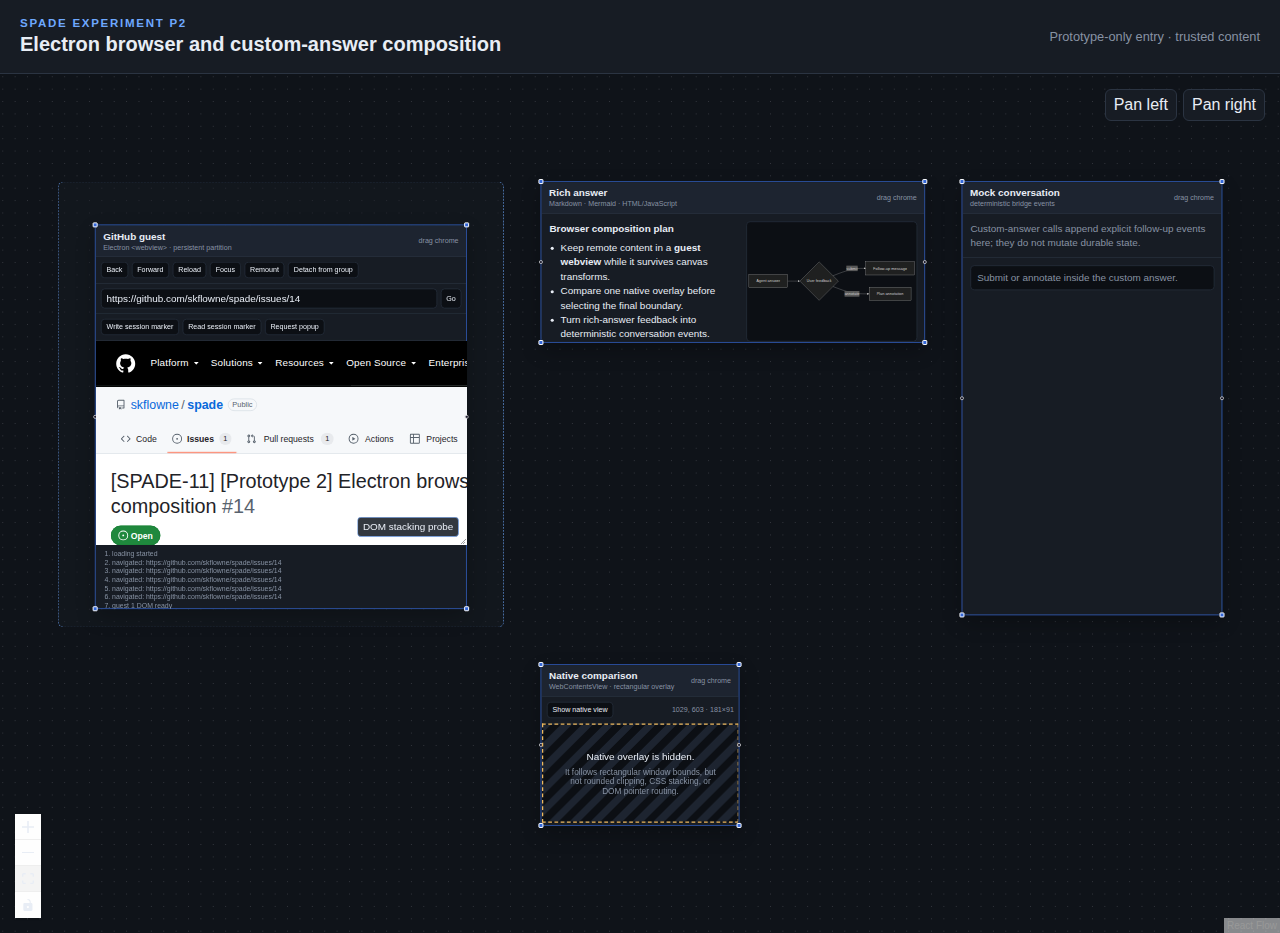
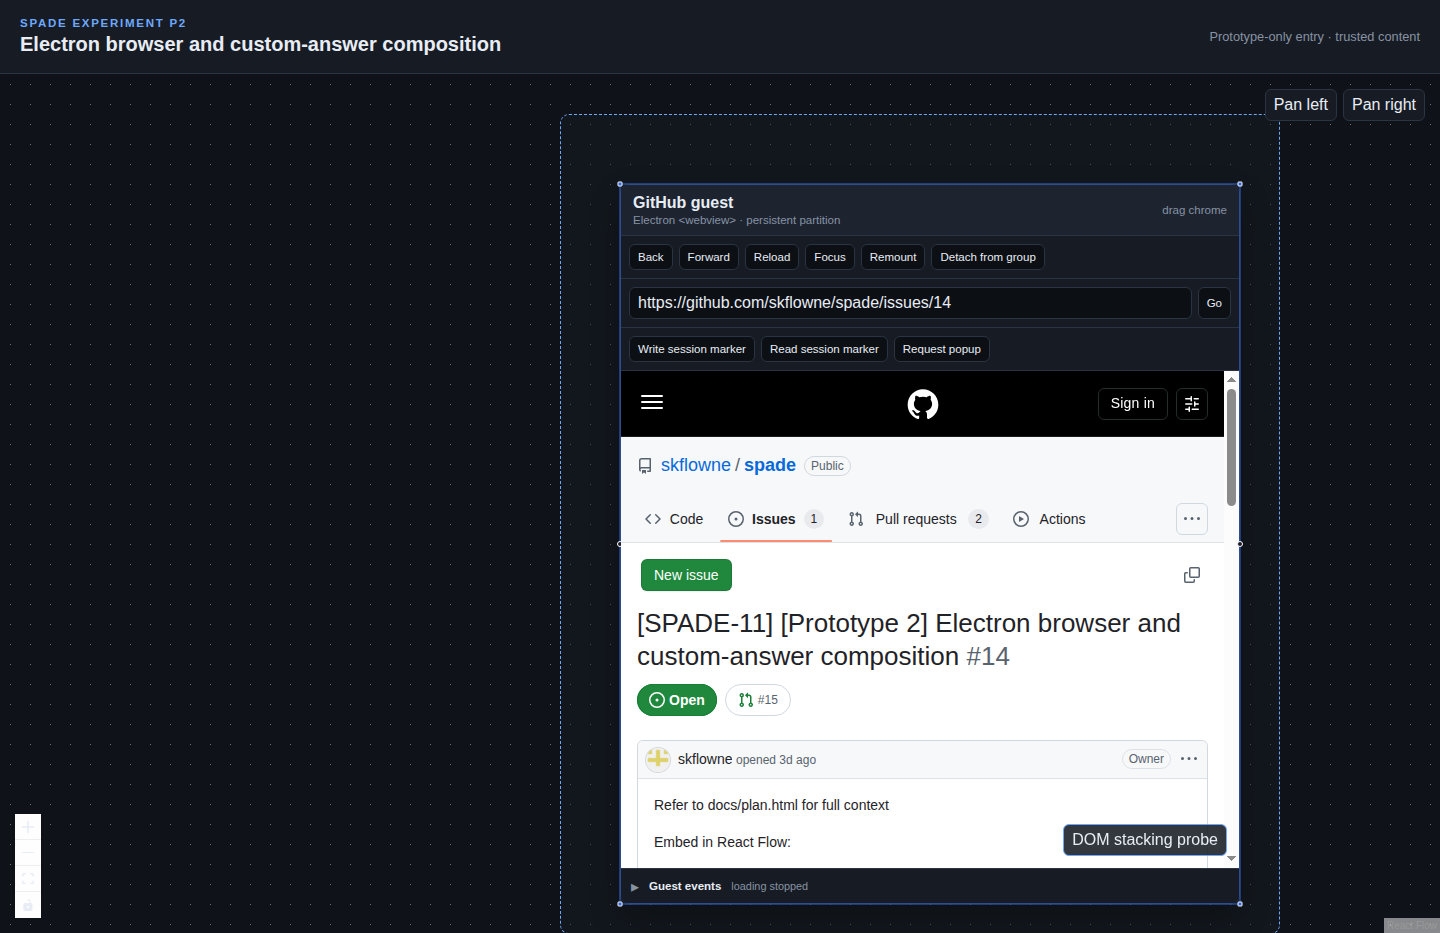
Improve prototype browser presentation

diff --git a/prototypes/electron-browser-custom-answer/renderer/src/App.tsx b/prototypes/electron-browser-custom-answer/renderer/src/App.tsx
@@ -38,14 +38,14 @@ const initialNodes: PrototypeFlowNode[] = [
   {
     id: 'browser-group',
     type: 'group',
-    position: { x: 40, y: 40 },
-    style: { width: 720, height: 720 },
+    position: { x: 720, y: 40 },
+    style: { width: 720, height: 820 },
     data: { label: 'Browser reparent target · native identity remains explicit' }
   },
   {
     id: 'rich-answer',
     type: 'rich-answer',
-    position: { x: 820, y: 40 },
+    position: { x: 40, y: 920 },
     dragHandle: '.prototype-node__chrome',
     style: { width: 620, height: 700 },
     data: {}
@@ -53,7 +53,7 @@ const initialNodes: PrototypeFlowNode[] = [
   {
     id: 'mock-conversation',
     type: 'conversation',
-    position: { x: 1500, y: 40 },
+    position: { x: 700, y: 920 },
     dragHandle: '.prototype-node__chrome',
     style: { width: 420, height: 700 },
     data: {}
@@ -61,15 +61,15 @@ const initialNodes: PrototypeFlowNode[] = [
   {
     id: 'github-browser',
     type: 'browser',
-    position: { x: 40, y: 820 },
+    position: { x: 40, y: 40 },
     dragHandle: '.prototype-node__chrome',
-    style: { width: 600, height: 620 },
+    style: { width: 620, height: 720 },
     data: {}
   },
   {
     id: 'native-overlay',
     type: 'native-overlay',
-    position: { x: 820, y: 820 },
+    position: { x: 1180, y: 920 },
     dragHandle: '.prototype-node__chrome',
     style: { width: 600, height: 620 },
     data: {}
@@ -147,7 +147,7 @@ export function App(): React.JSX.Element {
           parentId: undefined,
           extent: undefined,
           expandParent: undefined,
-          position: { x: 40, y: 820 }
+          position: { x: 40, y: 40 }
         }
       }
 
@@ -187,8 +187,7 @@ export function App(): React.JSX.Element {
               nodesConnectable={false}
               minZoom={0.25}
               maxZoom={1.6}
-              fitView
-              fitViewOptions={{ padding: 0.08 }}
+              defaultViewport={{ x: 0, y: 0, zoom: 1 }}
             >
               <Background />
               <Controls />

diff --git a/prototypes/electron-browser-custom-answer/renderer/src/app.css b/prototypes/electron-browser-custom-answer/renderer/src/app.css
@@ -280,6 +280,12 @@ input {
   color: var(--muted);
 }
 
+.react-flow__node-browser .prototype-node__body {
+  display: grid;
+  grid-template-rows: auto auto auto minmax(180px, 1fr) auto;
+  overflow: auto;
+}
+
 .browser-toolbar,
 .browser-probes,
 .native-toolbar {
@@ -322,11 +328,9 @@ input {
 
 .browser-surface {
   position: relative;
-  height: 330px;
   min-height: 180px;
   overflow: hidden;
-  border-bottom: var(--cr-border);
-  resize: vertical;
+  background: var(--text);
 }
 
 .browser-surface webview {
@@ -347,6 +351,47 @@ input {
   pointer-events: none;
 }
 
+.browser-events-panel {
+  min-width: 0;
+  border-top: var(--cr-border);
+  background: var(--panel);
+}
+
+.browser-events-panel summary {
+  display: flex;
+  gap: 10px;
+  align-items: center;
+  min-height: 34px;
+  padding: 7px 10px;
+  color: var(--text);
+  cursor: pointer;
+}
+
+.browser-events-panel summary::before {
+  color: var(--muted);
+  content: '▸';
+  transition: transform var(--cr-duration-fast) var(--cr-ease-standard);
+}
+
+.browser-events-panel[open] summary::before {
+  transform: rotate(90deg);
+}
+
+.browser-events-panel summary span {
+  flex: none;
+  font-size: 0.72rem;
+  font-weight: 700;
+}
+
+.browser-events-panel summary small {
+  min-width: 0;
+  overflow: hidden;
+  color: var(--muted);
+  font-size: 0.68rem;
+  text-overflow: ellipsis;
+  white-space: nowrap;
+}
+
 .browser-events {
   display: grid;
   gap: 2px;
@@ -354,6 +399,7 @@ input {
   margin: 0;
   padding: 8px 8px 8px 26px;
   overflow: auto;
+  border-top: var(--cr-border);
   color: var(--muted);
   font-size: 0.7rem;
 }

diff --git a/prototypes/electron-browser-custom-answer/renderer/src/BrowserNode.tsx b/prototypes/electron-browser-custom-answer/renderer/src/BrowserNode.tsx
@@ -146,9 +146,15 @@ export function BrowserNode(): React.JSX.Element {
         />
         <div className="stacking-probe">DOM stacking probe</div>
       </div>
-      <ol className="browser-events" aria-label="Guest event log">
-        {events.map((event, index) => <li key={`${index}-${event}`}>{event}</li>)}
-      </ol>
+      <details className="browser-events-panel">
+        <summary>
+          <span>Guest events</span>
+          <small>{events.at(-1) ?? 'Waiting for guest activity'}</small>
+        </summary>
+        <ol className="browser-events" aria-label="Guest event log">
+          {events.map((event, index) => <li key={`${index}-${event}`}>{event}</li>)}
+        </ol>
+      </details>
     </PrototypeNodeFrame>
   )
 }

diff --git a/prototypes/electron-browser-custom-answer/README.md b/prototypes/electron-browser-custom-answer/README.md
@@ -45,11 +45,12 @@ Environment: Electron 43 under Xvfb, with host, guest-webview, and native-view t
 | Check | Observation | Result |
 |---|---|---|
 | GitHub guest | The persistent `<webview>` loaded issue 14 and emitted loading, navigation, DOM-ready, and focus events. | Pass |
+| Initial presentation | The canvas opened at scale `1`; the `620×720` browser node gave its live guest a crisp `618×497` CSS-pixel surface instead of shrinking the complete experiment to fit. | Pass |
 | CSS zoom | React Flow changed from scale `0.569286` to `0.683143`; the same live guest remained attached and rendered. | Pass |
-| CSS resize | The browser node changed from `600×620` to `1080×620`; the guest filled the resized clipped body. | Pass |
+| CSS resize | The browser node changed from `620×720` to `1343×260`; the same guest remained attached and filled the `1326×180` minimum-height surface. | Pass |
 | CSS clipping and stacking | The guest stayed inside the rounded, overflow-hidden node body and the `DOM stacking probe` rendered above its content. | Pass |
 | CSS pan/window clipping | Moving the browser chrome to `translate(-328.735px, 1257.71px)` kept the guest attached while the window clipped the transformed node. | Pass |
-| Reparent | Reparenting changed the button to `Detach from group` and moved the browser to the group's absolute transform `translate(100px, 110px)`. Dragging beyond the previous boundary expanded the group instead of constraining the browser, while retaining one guest target and session. | Pass |
+| Reparent | Reparenting changed the button to `Detach from group` and moved the browser to the group's absolute transform `translate(780px, 110px)`. Dragging beyond the previous boundary expanded the group instead of constraining the browser, while retaining one guest target and session. | Pass |
 | Focus and keyboard | The host logged `guest focused`; after focus, a Tab key inside the guest focused GitHub's `Skip to content` link. | Pass |
 | Wheel | Guest `scrollY` changed from `0` to `500` without panning the outer canvas. | Pass |
 | Popup policy | `window.open` was intercepted in main, denied as a new window, and navigated the same guest from issue 14 to `electron/electron/issues`; only one guest target remained. | Pass |
@@ -76,7 +77,7 @@ Artifacts:
 
 ## Reproduction checklist
 
-1. Run `npm run prototype:p2` and use React Flow controls plus **Pan left/right** to transform the canvas.
+1. Run `npm run prototype:p2`. Confirm the browser opens at scale 1 with a large, crisp guest surface, then use React Flow controls plus **Pan left/right** to transform the canvas.
 2. Resize both browser nodes from their border handles. Confirm the guest scales/clips with its node and the native status reports changing window bounds.
 3. Reparent the guest, drag it beyond the group's previous boundary, and confirm the group expands without detaching or constraining it. Drag browser bodies and chrome, focus each browser, press Tab, and scroll each page.
 4. Use **Request popup**, Back, the address field, and Reload. Confirm popup navigation remains in the same guest.
